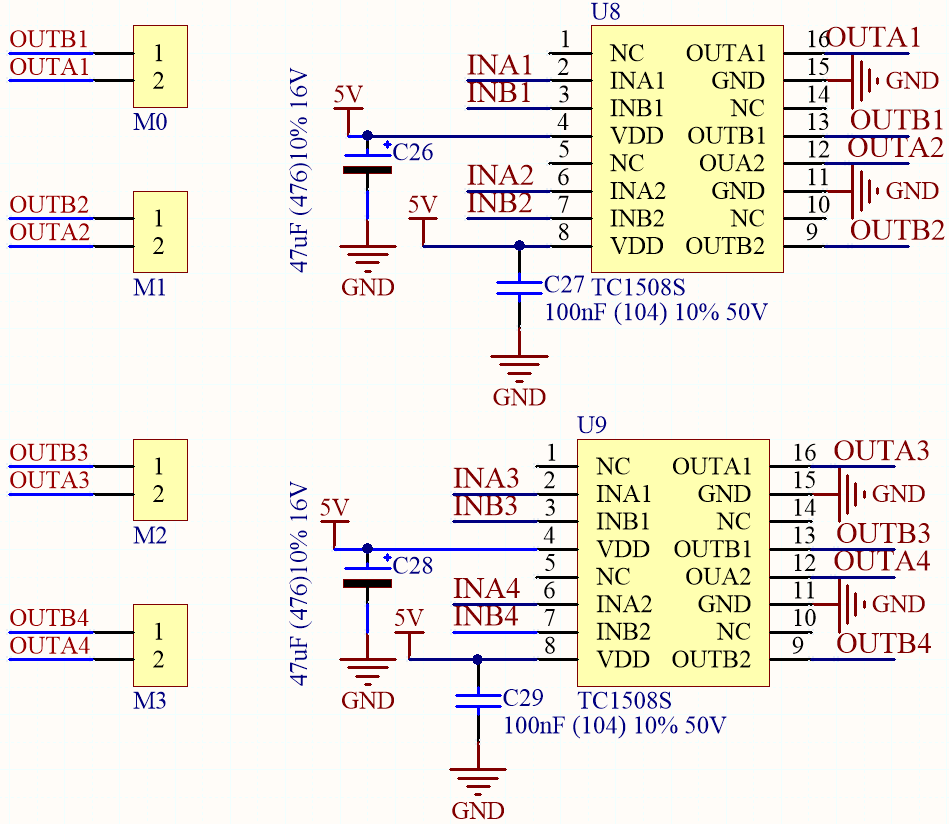
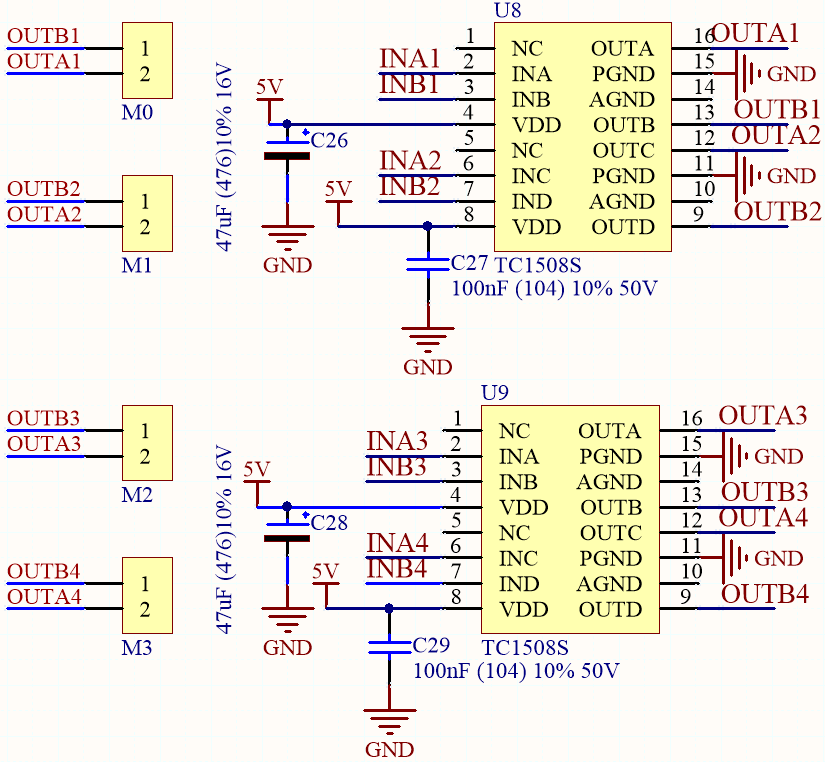
fix some errors

diff --git a/docs/source/get_started/app_control.rst b/docs/source/get_started/app_control.rst
@@ -38,6 +38,8 @@ Quick Guide
 
 #. Connect to ``Zeus_Car`` WLAN.
 
+    现在来将你的移动设备连接到Zeus Car发出的局域网，这样你的移动设备和Zeus Car就处于同一个局域网，有助于移动设备上的应用与Zeus Car通信。
+
     * Find ``Zeus_Car`` on the WLAN of the mobile phone (tablet), enter the password ``12345678`` and connect to it.
 
     .. image:: img/app_wlan.png
@@ -64,31 +66,32 @@ Quick Guide
 
         .. image:: img/app_edit.png
 
-    * The next step is to connect the Zeus Car to your device via the |app_connect| button. Wait a few seconds and ``Zeus_Car(IP)`` will appear, click on it to connect.
+#. Connect and run the Controller.
+
+    * 现在通过 |app_connect| button来将SunFounder Controller连接到Zeus Car来开始通信。Wait a few seconds and ``Zeus_Car(IP)`` will appear, click on it to connect.
 
         .. image:: img/app_auto_connect.png
 
         .. note::
             Please make sure your Wi-Fi is connected to ``Zeus_Car``, if you are not seeing the above message for a long time.
 
-#. Run the Controller.
 
-    After the "Connected Successfully" message appears, click the |app_run| button, then the camera footage will appear on the app, and now you can control your Zeus Car with these widgets.
+    * After the "Connected Successfully" message appears, click the |app_run| button, then the camera footage will appear on the app, and now you can control your Zeus Car with these widgets.
 
-    .. image:: img/app_run.png
+        .. image:: img/app_run.png
 
-    Here are the functions of the widgets.
+    * Here are the functions of the widgets.
 
-    * :ref:`app_compass_cali`: Turn on compass calibration.
-    * **Stop(F)**: Stop all movements of the car.
-    * **Set Heading(I)**: After placing the car in one direction with your hand, click on this widget to make this direction as the front of the car movement. This allows you to quickly specify a direction instead of slowly rotating the car to that direction with other widgets.
-    * :ref:`app_drift`: Activate the drift function.
-    * :ref:`app_move`: Control the car to move in all directions.
-    * :ref:`app_speech_control`: Switching to speech control mode.
-    * :ref:`app_line_track`: Switching to line track mode.
-    * :ref:`app_follow`: Switching to follow mode.
-    * :ref:`app_avoid`: Switch to obstacle avoidance mode.
-    * :ref:`app_rotate_drift`: Used to control the head direction.
+      * :ref:`app_compass_cali`: Turn on compass calibration.
+      * **Stop(F)**: Stop all movements of the car.
+      * **Set Heading(I)**: After placing the car in one direction with your hand, click on this widget to make this direction as the front of the car movement. This allows you to quickly specify a direction instead of slowly rotating the car to that direction with other widgets.
+      * :ref:`app_drift`: Activate the drift function.
+      * :ref:`app_move`: Control the car to move in all directions.
+      * :ref:`app_speech_control`: Switching to speech control mode.
+      * :ref:`app_line_track`: Switching to line track mode.
+      * :ref:`app_follow`: Switching to follow mode.
+      * :ref:`app_avoid`: Switch to obstacle avoidance mode.
+      * :ref:`app_rotate_drift`: Used to control the head direction.
 
 .. _app_compass_cali:
 

diff --git a/docs/source/hardware/cpn_zeus_car_shield.rst b/docs/source/hardware/cpn_zeus_car_shield.rst
@@ -37,7 +37,8 @@ This extension board also has a built-in charging circuit, which can charge the 
 * 3 groups of indicators.
     * Charging Indicator: This indicator lights up after plugging in the USC-C cable for charging, the color is orange.
     * Power Indicator: Turn the power switch to ON, the power indicator will light up, color: green.
-    * Power Indicator: Two indicators (orange) represent different power levels. When both D3 and D4 indicators are off, you need to use the USB-C cable to charge. When charging, these two indicators will flash.
+    * Battery Indicator: Two indicators (orange) represent different battery levels. When both D3 and D4 indicators are off, you need to use the USB-C cable to charge. When charging, these two indicators will flash.
+
 * :ref:`shield_ultrasonic_pin`
     * To connect the ultrasonic module, both Trig & Echo pins are connected on pin 10 of the Arduino board.
 
@@ -164,7 +165,7 @@ Here is the schematic.
 
 .. image:: img/shield_motor_sche.png
 
-and the input pins of each channel corresponding to the pins on the Arduino.
+So the corresponding control pins of the 4 motor ports are shown below.
 
 .. list-table::
     :widths: 25 50
@@ -172,21 +173,21 @@ and the input pins of each channel corresponding to the pins on the Arduino.
     * - Arduino Board
       - Zeus Car Shield
     * - ~3
-      - INA1
+      - OUTA1
     * - 4
-      - INB1
+      - OUTB1
     * - ~5
-      - INA2
+      - OUTA2
     * - ~6
-      - INB2
+      - OUTB2
     * - A0
-      - INB4
+      - OUTB4
     * - A1
-      - INA4
+      - OUTA4
     * - A2
-      - INB3
+      - OUTB3
     * - A3
-      - INA3
+      - OUTA3
 
 
 

diff --git a/docs/source/hardware/cpn_18650_battery.rst b/docs/source/hardware/cpn_18650_battery.rst
@@ -10,7 +10,7 @@
 * **GND**: Negative battery terminal.
 
 
-This is a custom battery pack made by SunFounder consisting of two 18650 batteries with a capacity of 2200mAh. The connector is XH2.54-4P, which can be charged directly after being inserted into the Zeus Car shield.
+This is a custom battery pack made by SunFounder consisting of two 18650 batteries with a capacity of 2200mAh. The connector is PH2.0-5P, which can be charged directly after being inserted into the Zeus Car shield.
 
 
 **Pins Out**
